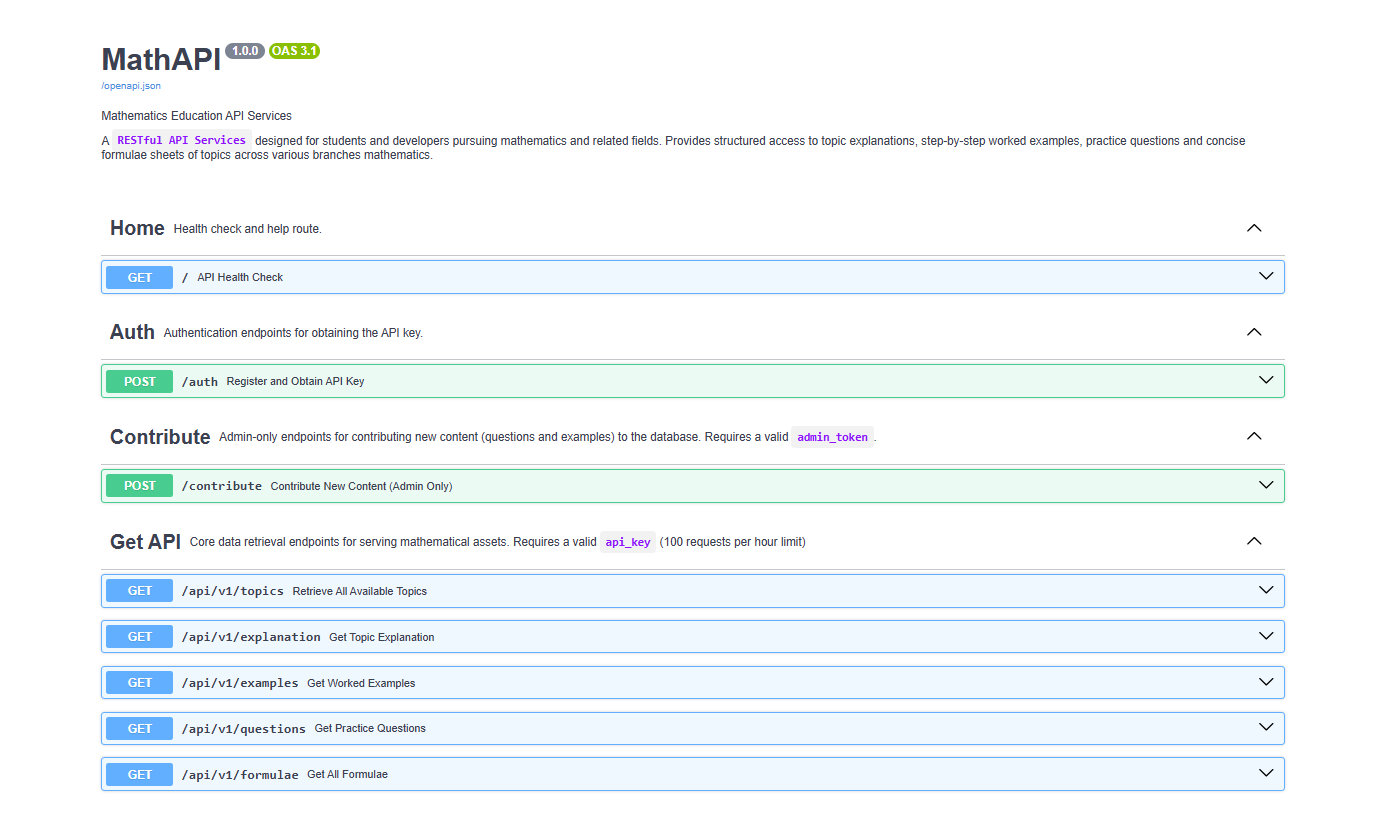
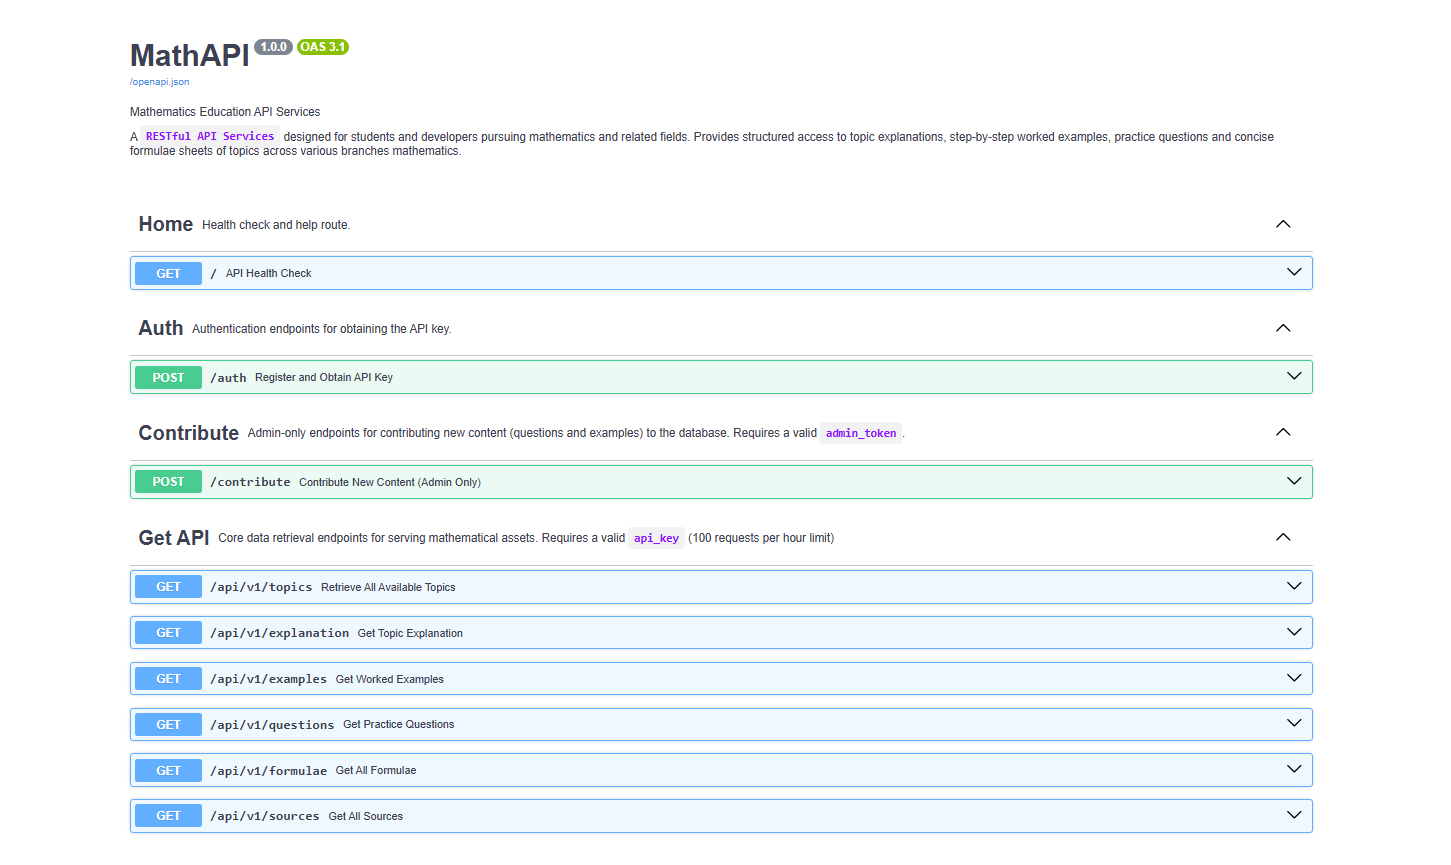
[update] config/ docs/ contribution

Changed region(s): [[0.0618, 0.2445, 0.9274, 0.978], [0.0618, 0.0306, 0.8965, 0.2139]]

diff --git a/backend/controllers/contribute/contribute.py b/backend/controllers/contribute/contribute.py
@@ -9,7 +9,7 @@ def contribution(
         database: MongoClient, 
         admin_token: str, 
         contribution_type: ContributionType,
-        request_data: Dict[str, Any]
+        request_data: List[Dict[str, Any]]
     ) -> Dict[str, Any]:
 
     # VALIDATING ADMIN_TOKEN
@@ -20,12 +20,18 @@ def contribution(
         )
     
     # VALIDATING IS THE TOPIC_ID VALID
+    for data in request_data:
+        if "topic_id" not in data:
+            raise HTTPException(
+                status_code=status.HTTP_422_UNPROCESSABLE_ENTITY,
+                detail="Missing Required Field - 'topic_id' is required in each contribution data"
+            )
     try:
         topic: List[Dict[str, Any]] = get_documents(
             database,
             "datasets",
             "topics",
-            {"topic_id": request_data.get("topic_id", "Unknown")}
+            {"topic_id": data.get("topic_id", "Unknown")}
         )
     except ConnectionError as e:
         raise HTTPException(
@@ -36,13 +42,13 @@ def contribution(
     if not topic:
         raise HTTPException(
             status_code=status.HTTP_404_NOT_FOUND,
-            detail=f"Topic With ID - '{request_data.get('topic_id', 'Unknown')}' Not Found"
+            detail=f"Topic With ID - '{data.get('topic_id', 'Unknown')}' Not Found"
         )
 
     # VALIDATING THE CONTRIBUTION DATA
     if contribution_type.value == "Question":
         try:
-            QuestionContributionSchema(**request_data)
+            QuestionContributionSchema(**data)
         except Exception as e:
             raise HTTPException(
                 status_code=status.HTTP_422_UNPROCESSABLE_ENTITY,
@@ -51,7 +57,7 @@ def contribution(
 
     if contribution_type.value == "Example":
         try:
-            ExampleContributionSchema(**request_data)
+            ExampleContributionSchema(**data)
         except Exception as e:
             raise HTTPException(
                 status_code=status.HTTP_422_UNPROCESSABLE_ENTITY,
@@ -64,7 +70,7 @@ def contribution(
             database,
             "datasets",
             f"{contribution_type.value.lower()}s",
-            request_data
+            data
         )
     except ConnectionError as e:
         raise HTTPException(
@@ -75,5 +81,5 @@ def contribution(
     # RETURN OBJECT
     return {
         "success": True,
-        "message": f"{contribution_type.value} Contribution Successful"
+        "message": f"{contribution_type.value}s Contribution Successful"
     }

diff --git a/backend/routes/contribute/contribute.py b/backend/routes/contribute/contribute.py
@@ -1,5 +1,5 @@
 from fastapi import APIRouter, status, Depends, Query, Body
-from typing import Any, Dict
+from typing import Any, Dict, List
 from pymongo import MongoClient
 from backend.models.contribute.contribute import ContributionResponse, ContributionType
 from backend.utils.database import get_db
@@ -23,9 +23,9 @@ def contribute(
         description="Admin authorization token. Must match the server-configured `ADMIN_TOKEN` environment variable."
     ),
     contribution_type: ContributionType = "Question",   # type: ignore
-    data: Dict[str, Any] = Body(
+    data: List[Dict[str, Any]] = Body(
         ...,
-        description="The content data to be contributed."
+        description="List of the content data to be contributed."
     ),
     database: MongoClient = Depends(get_db)
 ) -> dict[str, Any]:

diff --git a/backend/routes/home.py b/backend/routes/home.py
@@ -19,7 +19,7 @@ def home() -> dict[str, Any]:
         "success": True,
         "message": "MathAPI - API Services",
         "help": {
-            "get_started": "Go to our documentation, then go to the POST auth/ route, submit your details and get an api_key.",
+            "get_started": "Go to our documentation, then go to the POST /auth route, submit your details and get an api_key.",
             "explore_routes": "We have currently a total of 6 routes serving topics, explanations, worked examples, practice questions, formulae and learning sources with a limit of 100 requests per hour.",
             "contribution": "You can contribute a question or example through POST /contribute route via a protected admin_token."
         },

diff --git a/README.md b/README.md
@@ -2,6 +2,8 @@
 
 [![Documentations](https://img.shields.io/badge/Documentation-005571?style=for-the-badge&logo=fastapi&logoColor=white)](https://mathapi.vercel.app/docs)
 
+- MathAPI Documentation
+
 ![MathAPI Docs Screenshot](img/docs.png)
 
 ## Introduction
@@ -106,7 +108,7 @@ MathAPI/
 │   │   ├── api/v1/                 # API response Pydantic models
 │   │   └── components/
 │   │       ├── helpers.py          # Shared enums and base models
-│   │       └── main.py             # Composite models (Topic, Question, Explain)
+│   │       └── main.py             # Composite models (Topic, Explain, Example, Question)
 │   │
 │   ├── routes/
 │   │   ├── home.py                 # GET /
@@ -155,12 +157,12 @@ uv sync
 
 ### Start development server with hot reload
 ```bash
-uv run dev
+uv run uvs dev
 ```
 
 ### Start production server
 ```bash
-uv run start
+uv run uvs start
 ```
 
 ---
@@ -176,17 +178,19 @@ Contribute questions/examples directly to the database via the authenticated end
 ```bash
 curl -X POST "https://mathapi.vercel.app/contribute?admin_token=YOUR_ADMIN_TOKEN&contribution_type=Question" \
   -H "Content-Type: application/json" \
-  -d '{
-    "topic_id": "quadratic-equation",
-    "question": "Your question here...",
-    "difficulty": "Intermediate",
-    "question_type": ["Conceptual"],
-    "options": {"A": "...", "B": "...", "C": "...", "D": "..."},
-    "expected_time_limit": "2 min",
-    "hint": "Think about...",
-    "answer": "A",
-    "solution_sources": [{"source": "Textbook", "type": "Book", "link": "..."}]
-  }'
+  -d '[
+    {
+      "topic_id": "quadratic-equation",
+      "question": "Your question here...",
+      "difficulty": "Intermediate",
+      "question_type": ["Conceptual"],
+      "options": {"A": "...", "B": "...", "C": "...", "D": "..."},
+      "expected_time_limit": "2 min",
+      "hint": "Think about...",
+      "answer": "A",
+      "solution_sources": [{"source": "Textbook", "type": "Book", "link": "..."}]
+    }
+  ]'
 ```
 
 ---
